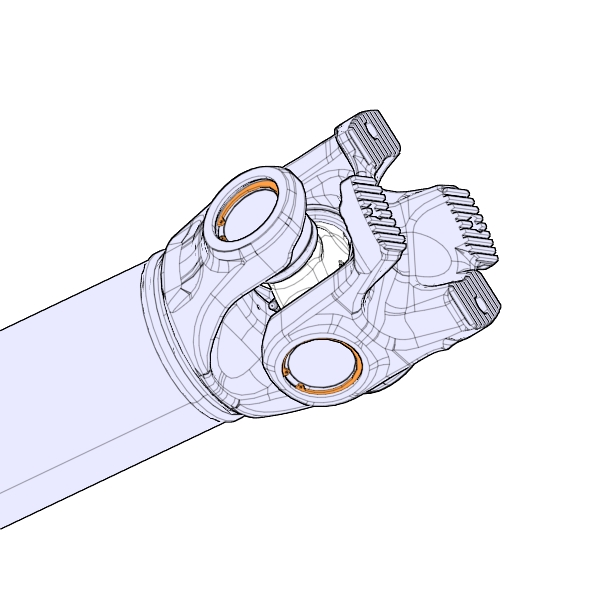
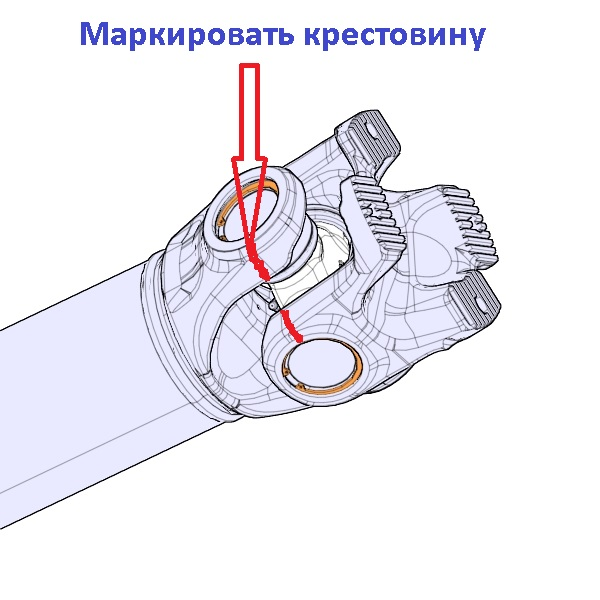
290920_new_page
cardan_shaft.html

Changed region(s): [[0.12, 0.03, 0.81, 0.48], [0.45, 0.51, 0.51, 0.57]]

diff --git a/cardan.html b/cardan.html
@@ -1,0 +1,376 @@
+<!DOCTYPE html>
+<html>
+
+<head>
+    <meta charset="utf-8" />
+    <meta name="viewport" content="width=device-width minimum-scale=1.0 maximum-scale=1.0 user-scalable=no" />
+    <title>Замена карданных шарниров, замена (каждого) </title>
+    <meta name="keywords" content="ремонт грузовик грузовой автомобиль двигатель Вольво Volvo" />
+    <meta name="description" content="Руководство по ремонту грузовых автомобилей Вольво" />
+    <link rel="stylesheet" href="css/style.css">
+    <link rel="stylesheet" href="css/all.css">
+    <link rel="stylesheet" href="css/text.css">
+    <link rel="stylesheet" href="css/adaptive.css">
+    <link href="https://fonts.googleapis.com/css?family=Roboto:100,300,300i,400,400i,500,700,900&display=swap" rel="stylesheet">
+    <link rel="stylesheet" href="css/hamburgers.css">
+    <link rel="stylesheet" href="css/adaptive.css">
+    <link rel="stylesheet" href="css/style.css">
+    <link rel="stylesheet" href="css/mobmenu.css">
+    <script src="js/jquery-3.4.1.min.js"></script>
+</head>
+
+<body>
+    <header>
+        <div class="black_nav">
+            <!-- Мобильное меню Start -->
+            <div class="burger_menu">
+                <button class="hamburger hamburger--arrowalt" type="button">
+                    <span class="hamburger-box">
+                        <span class="hamburger-inner"></span>
+                    </span>
+                </button>
+            </div>
+
+            <div id="menu">
+                <ul>
+                    <li><a href="" onclick="menuOpen('s_mn_1');return(false)">Ремонты</a>
+                        <ul id="s_mn_1">
+                            <li><a href="pads.html" target="_blank">Замена задних подушек крепления двигателя</a></li>
+                            <li><a href="valves.html" target="_blank">Регулировка клапанов двигателя</a></li>
+                            <li><a href="ishift.html.html" target="_blank">Снятие коробки передач I-Shift</a></li>
+                            <li><a href="brakes.html" target="_blank">Замена тормозных накладок</a></li>
+                            <li><a href="stab.html" target="_blank">Замена стабилизатора кабины</a></li>
+                            <li><a href="gen.html">Замена генератора</a></li>
+                            <li><a href="driveshaft.html">46606-2 Передний мост. Подшипник и уплотнительные кольца ведущего вала. Замена</a></li>
+                            <li><a href="">ТО</a></li>
+                        </ul>
+                    </li>
+
+                    <li><a href="" onclick="menuOpen('s_mn_2');return(false)">Документы</a>
+                        <ul id="s_mn_2">
+                            <li><a href="transfer_gear.html" target="_blank">Раздаточная коробка</a></li>
+                            <li><a href="service.html" target="_blank">Сервисные режимы</a></li>
+                        </ul>
+                    </li>
+
+                    <li><a href="" onclick="menuOpen('s_mn_3');return(false)">Видео</a>
+                        <ul id="s_mn_3">
+                            <li><a href="https://youtu.be/1avpoKe8W_o" target="_blank">Лайфхак как быстро снять/поставить колодки на Volvo fh12</a></li>
+                            <li><a href="https://youtu.be/Yw-9nIqBrOE" target="_blank">№1.Ремонт Webasto Thermo 90 ST</a></li>
+                            <li><a href="https://youtu.be/dZjj1mKDUTY" target="_blank">№2.Ремонт Webasto Thermo 90 ST</a></li>
+                            <li><a href="https://youtu.be/Wmk7OJsDB-0" target="_blank">Проверка двигателя Вольво FH</a></li>
+                            <li><a href="https://youtu.be/2NiIiGWVbYA" target="_blank">VOLVO FH 12 сальник гур замена</a></li>
+                            <li><a href="https://youtu.be/F-Fd5LUE3oU" target="_blank">VOLVO FH 13 не запускается автономка</a></li>
+                            <li><a href="https://youtu.be/X9l8KeIENQw" target="_blank">VOLVO FH 13 отказ уровня пола + горит АКБ лампа на щитке приборов</a></li>
+                            <li><a href="https://youtu.be/eyP_0Ia1gsk" target="_blank">VOLVO FH 13 Вискомуфта замена подшипника</a></li>
+                            <li><a href="https://youtu.be/MgnjWy3MCRI" target="_blank">Гидроцилиндры и насосы подъема кабины.</a></li>
+                            <li><a href="https://youtu.be/HZ8qx5xHuZE" target="_blank">VOLVO FH 13 куча ошибок по АКПП. Как быстро найти обрыв провода</a></li>
+                            <li><a href="https://youtu.be/Owpyb182sxg" target="_blank">VOLVO FH 12 Сломаны держатели форсунок. Регулировка клапанов без VEB</a></li>
+                            <li><a href="https://youtu.be/7tw5YRes_6k" target="_blank">Снятие трубки,штуцера,Volvo</a></li>
+                            <li><a href="https://youtu.be/w7OO2WCfvTM" target="_blank">Volvo VNL 780. Снятие ступицы.</a></li>
+                            <li><a href="https://youtu.be/7tw5YRes_6k" target="_blank">Volvo VNL 780. Установка сальника ступицы</a></li>
+                            <li><a href="https://youtu.be/GGrB4dc7cuI" target="_blank">Как ехать задним ходом на машине с прицепом</a></li>
+                            <li><a href="https://youtu.be/L8FZ6wdF0SE" target="_blank">Ремонт тормозного Z механизма Volvo</a></li>
+                        </ul>
+                    </li>
+
+                    <li><a href="" onclick="menuOpen('s_mn_4');return(false)">Фотогаллерея</a>
+                        <ul id="s_mn_4">
+                            <li><a href="gallery.html" target="_blank">Всё</a></li>
+                            <li><a href="gal02.html" target="_blank">Моя работа 2020</a></li>
+                        </ul>
+                    </li>
+
+                    <li><a href="" onclick="menuOpen('s_mn_5');return(false)">Полезные ресурсы</a>
+                        <ul id="s_mn_5">
+                            <li><a href="">Подпункт меню №1</a></li>
+                            <li><a href="">Подпункт меню №2</a></li>
+                            <li><a href="">Подпункт меню №3</a></li>
+                        </ul>
+                    </li>
+                </ul>
+            </div>
+            <!-- Мобильное меню End -->
+        </div>
+        <div class="wrapper">
+            <div class="login"><a href="http://truck-diagnost.com/index.php" target="_blank">Войти на форум</a></div>
+            <nav class="top_nav">
+                <div class="logowrapp">
+                    <div class="logo"><img src="img/volvoLogo_mini.png" alt=""></div>
+                    <div class="location">
+                        <h3>Volvo Trucks Service</h3><span>Сайт в помощь по ремонту и обслуживанию грузовых автомобилей
+                            Вольво</span>
+                    </div>
+                </div>
+                <ul class="tabs">
+                    <li class="simpleLink"><a href="index.html" target="_blank"> Главная</a></li>
+                    <li class="tabLink" data-tab="1">Ремонты</li>
+                    <li class="tabLink" data-tab="2">Документы</li>
+                    <li class="tabLink" data-tab="3">Видео</li>
+                    <li class="tabLink" data-tab="4">Фотогаллерея</li>
+                </ul>
+            </nav>
+        </div>
+        <div class="tabs_body">
+            <div class="tab-b">
+                <p>
+                    Своевременное обслуживание Volvo максимально увеличивает Ваше время работы без простоев и снижает
+                    риск
+                    незапланированных визитов в мастерскую. Индивидуальные планы обслуживания для каждого грузовика
+                    гарантируют, что правильное обслуживание проводится именно тогда, когда необходимо.</p>
+            </div>
+            <div class="tab-b">
+                <ul>
+                    <li><a href="">Замена втулки передней рессоры</a></li>
+                    <li><a href="pads.html" target="_blank">Замена задних подушек крепления двигателя</a></li>
+                    <li><a href="valves.html" target="_blank">Регулировка клапанов двигателя</a></li>
+                    <li><a href="ishift.html.html" target="_blank">Снятие коробки передач I-Shift</a></li>
+                    <li><a href="brakes.html" target="_blank">Замена тормозных накладок</a></li>
+                    <li><a href="stab.html" target="_blank">Замена втулок стабилизатора кабины</a></li>
+                    <li><a href="gen.html">Замена генератора</a></li>
+                    <li><a href="driveshaft.html">46606-2 Передний мост. Подшипник и уплотнительные кольца ведущего вала. Замена</a></li>
+                    <li><a href="">ТО</a></li>
+                </ul>
+            </div>
+            <div class="tab-b">
+                <h3>Документация</h3>
+                <li><a href="transfer_gear.html" target="_blank">Раздаточная коробка</a></li>
+                <li><a href="service.html" target="_blank">Сервисные режимы</a></li>
+            </div>
+            <div class="tab-b video">
+                <h3>Видео</h3>
+                <ul>
+                    <li><a href="https://youtu.be/1avpoKe8W_o" target="_blank">Лайфхак как быстро снять/поставить колодки на Volvo fh12</a></li>
+                    <li><a href="https://youtu.be/Yw-9nIqBrOE" target="_blank">№1.Ремонт Webasto Thermo 90 ST</a></li>
+                    <li><a href="https://youtu.be/dZjj1mKDUTY" target="_blank">№2.Ремонт Webasto Thermo 90 ST</a></li>
+                    <li><a href="https://youtu.be/Wmk7OJsDB-0" target="_blank">Проверка двигателя Вольво FH</a></li>
+                    <li><a href="https://youtu.be/2NiIiGWVbYA" target="_blank">VOLVO FH 12 сальник гур замена</a></li>
+                    <li><a href="https://youtu.be/F-Fd5LUE3oU" target="_blank">VOLVO FH 13 не запускается автономка</a></li>
+                    <li><a href="https://youtu.be/X9l8KeIENQw" target="_blank">VOLVO FH 13 отказ уровня пола + горит АКБ лампа на щитке приборов</a></li>
+                    <li><a href="https://youtu.be/eyP_0Ia1gsk" target="_blank">VOLVO FH 13 Вискомуфта замена подшипника</a></li>
+                    <li><a href="https://youtu.be/MgnjWy3MCRI" target="_blank">Гидроцилиндры и насосы подъема кабины.</a></li>
+                    <li><a href="https://youtu.be/HZ8qx5xHuZE" target="_blank">VOLVO FH 13 куча ошибок по АКПП. Как быстро найти обрыв провода</a></li>
+                    <li><a href="https://youtu.be/Owpyb182sxg" target="_blank">VOLVO FH 12 Сломаны держатели форсунок. Регулировка клапанов без VEB</a></li>
+                    <li><a href="https://youtu.be/7tw5YRes_6k" target="_blank">Снятие трубки,штуцера,Volvo</a></li>
+                    <li><a href="https://youtu.be/w7OO2WCfvTM" target="_blank">Volvo VNL 780. Снятие ступицы.</a></li>
+                    <li><a href="https://youtu.be/7tw5YRes_6k" target="_blank">Volvo VNL 780. Установка сальника ступицы</a></li>
+                    <li><a href="https://youtu.be/GGrB4dc7cuI" target="_blank">Как ехать задним ходом на машине с прицепом</a></li>
+                    <li><a href="https://youtu.be/L8FZ6wdF0SE" target="_blank">Ремонт тормозного Z механизма Volvo</a></li>
+                </ul>
+            </div>
+            <div class="tab-b">
+                <h3>Фотогаллерея</h3>
+                <li><a href="gallery.html" target="_blank">Всё</a></li>
+                <li><a href="gal02.html" target="_blank">Моя работа 2020</a></li>
+            </div>
+
+        </div>
+    </header>
+    <!-- Контент Начало -->
+    <div class="wrapper">
+        <div class="page_title">
+            <h1 class="retroshadow">Volvo Truck Service</h1>
+        </div>
+    </div>
+    <div class="banner">
+
+    </div>
+
+    <div class="wrapper">
+        <section class="page">
+            <div class="leftSide">
+                <h3>Реклама</h3>
+            </div>
+            <div class="infobox">
+                <h1>45171-4 Карданные шарниры, замена (каждого)</h1>
+                <h3>Время выполнения:</h3> 110 (1час 6 мин).
+                <h3>Инструмент: </h3>
+                <ol class="rounded">
+                    <li>Круглогубцы для съёма колец</li>
+                    <li>Молоток</li>
+                    <li>Острая выколотка для срывания стопорных колец</li>
+                    <li>Выколотка или старый подшипник от крестовины</li>
+                    <li>Пресс</li>
+
+                </ol>
+                <h3>Порядок действий: </h3>
+                <h2>Разборка</h2>
+                <ol class="rounded">
+                    <li>Очистите карданный шарнир</li>
+                    <li>Маркируйте положение фланцевой вилки. <a href="#01">Смотреть картинку</a></li>
+                    <li>Снимите стопорные кольца <a href="#02">Смотреть картинку</a></li>
+                    <li>
+                        Снимите стопорное кольцо. Снимите шестерню. Отметить положение.
+                        <a href="#03">Смотреть картинку</a>
+                    </li>
+                    <li>
+                        Открутить гайку спецключом. <a href="#04">Смотреть картинку</a>
+                    </li>
+
+                    <li>Демонтируйте коронную шестерню.<a href="#05">Смотреть картинку</a></li>
+                    <li>Снять ступицу</li>
+                    <li>Снять вилку с тормозной камеры. Отметить положение</li>
+                    <li>Снять тормозную камеру</li>
+                    <li>Отсоедините продольную рулевую тягу</li>
+                    <li>
+                        Демонтировать рычаг тормозного механизма.
+                        <a href="#06">Смотреть картинку</a>
+                    </li>
+                    <li>
+                        Демонтируйте датчик ABS.
+                    </li>
+                    <li>Выверните винты. <a href="#07">Смотреть картинку</a> </li>
+
+                    <li>
+                        Открутите стопорный винт. Отметьте положение.
+                        <a href="#08">Смотреть картинку</a>
+                    </li>
+                    <li>
+                        Установите съёмные винты.
+                        Затяните винты в попеременном порядке.
+                        <a href="#09">Смотреть картинку</a>
+                    </li>
+                    <li>
+                        Демонтируйте тормозной механизм в сборе с колодками.
+                        <a href="#10">Смотреть картинку</a>
+                    </li>
+                    <li>
+                        Выверните винты 4 шт. Шестигранник *14
+                        Снять верхнюю пластину.
+                        <a href="#11">Смотреть картинку</a>
+                    </li>
+                    <li>Извлеките штифты. Выверните винты. Снимите рулевой рычаг.<a href="#12">Смотреть картинку</a>
+                    </li>
+                    <li>
+                        Снимите поворотный кулак.
+                        <a href="#13">Смотреть картинку</a>
+                    </li>
+                    <li>Снимите ведущий вал. <a href="#14">Смотреть картинку</a></li>
+                    <li>Если ведущий вал не выходит, возможно мешает блокировка дифференциала. Нужно открутить 4 болта и снять блокировку
+                    </li>
+                    <li>
+                        Снимите уплотнительное кольцо и подшипник из моста. <a href="#15">Смотреть картинку</a>
+                    </li>
+                    <li>
+                        Снимите упорную шайбу из поворотного кулака.
+                        <a href="#16">Смотреть картинку</a>
+                    </li>
+                    <li>
+                        Снимите уплотнительное кольцо и подшипник поворотного кулака.
+                    </li>
+                    <br>
+                </ol>
+
+                <h2>Сборка</h2>
+                <ol class="rounded">
+                    <li>
+                        Установите подшипник. Установите уплотнительное кольцо. Втолкните до упора. <a href="#16">Смотреть картинку</a>
+                    </li>
+                    <li>
+                        Установите упорную шайбу. Используйте пластиковую киянку. <a href="#17">Смотреть картинку.</a>
+                    </li>
+                    <li>
+                        Установите подшипник. Установите уплотнительное кольцо. Так же как и в повротный кулак<a href="#15">Смотреть картинку</a>
+                    </li>
+                    <br>
+                </ol>
+                <h3>Полезные ссылки по теме:</h3>
+                <a href="https://www.youtube.com/watch?v=xlF5X3SRHQI&t=14s" target="_blank">VOLVO c I-shift нет передач</a><br>
+
+                <section class="gallery">
+                    <div class="pic">
+                        <img src="img/cardan_shaft_01.jpg" alt="крестовина" title="крестовина" id="01">
+                    </div> <br>
+
+                    <div class="pic">
+                        <img src="img/cardan_shaft_01_b.jpg" alt="крестовина" title="крестовина" id="02">
+                    </div> <br>
+
+                    <div class="pic">
+                        <img src="img/content/driveshaft/dsh02b.jpg" alt="стопорное кольцо" title="стопорное кольцо" id="03">
+                    </div> <br>
+
+                    <div class="pic">
+                        <img src="img/content/driveshaft/dsh03b.jpg" alt="Гайка" title="Гайка" id="04">
+                    </div> <br>
+
+                    <div class="pic">
+                        <img src="img/content/driveshaft/dsh03.jpg" alt="Демонтируйте коронную шестерню" title="Демонтируйте коронную шестерню" id="05">
+                    </div> <br>
+
+                    <div class="pic">
+                        <img src="img/content/driveshaft/dsh04.jpg" alt="рычаг тормозного механизма" title="рычаг тормозного механизма" id="06">
+                    </div> <br>
+
+                    <div class="pic">
+                        <img src="img/content/driveshaft/dsh05.jpg" alt="Винты" title="Винты" id="07">
+                    </div> <br>
+
+                    <div class="pic">
+                        <img src="img/content/driveshaft/dsh06.jpg" alt="стопорный винт" title="стопорный винт" id="08">
+                    </div> <br>
+
+                    <div class="pic">
+                        <img src="img/content/driveshaft/dsh07.jpg" alt="съёмные винты" title="съёмные винты" id="09">
+                    </div> <br>
+
+                    <div class="pic">
+                        <img src="img/content/driveshaft/dsh08.jpg" alt="водило" title="водило" id="10">
+                    </div> <br>
+
+                    <div class="pic">
+                        <img src="img/content/driveshaft/dsh09.jpg" alt="Снять верхнюю пластину." title="Снять верхнюю пластину." id="11">
+                    </div> <br>
+
+                    <div class="pic">
+                        <img src="img/content/driveshaft/dsh10.jpg" alt="Штифты" title="Штифты" id="12">
+                    </div> <br>
+
+                    <div class="pic">
+                        <img src="img/content/driveshaft/dsh11.jpg" alt="поворотный кулак" title="поворотный кулак" id="13">
+                    </div> <br>
+
+                    <div class="pic">
+                        <img src="img/content/driveshaft/dsh12.jpg" alt="ведущий вал" title="ведущий вал" id="14">
+                    </div> <br>
+
+                    <div class="pic">
+                        <img src="img/content/driveshaft/dsh13.jpg" alt="уплотнительное кольцо" title="уплотнительное кольцо" id="15">
+                    </div> <br>
+
+                    <div class="pic">
+                        <img src="img/content/driveshaft/dsh14.jpg" alt="уплотнительное кольцо" title="уплотнительное кольцо" id="16">
+                    </div> <br>
+                </section>
+                <a href="sealing_ring.html">Уплотнительное кольцо приводного вала, замена.</a>
+            </div>
+            <div class="rightSide">
+                <h3>Реклама</h3>
+            </div>
+        </section>
+    </div>
+    <footer>
+        <div class="footer_content">
+            <nav class="footer-nav">
+                <ul>
+                    <li><a href="http://autogeriko.com/" target="_blank">AUTOGERICO - сайт по грузовикам</a></li>
+                    <li><a href="http://autogeriko.com/page-1672.html" target="_blank">Renault Truck - автоэлектрика</a></li>
+                    <li><a href="http://sti66.ru/vsegda_na_sklade/album/peredniy-vedushchiy-most" target="_blank">Запчасти он-лайн</a></li>
+                </ul>
+            </nav>
+
+            <div class="picture"><img src="img/truck-113.png" alt="">
+            </div>
+
+            <div class="volvo"><span> Website has been made in 2019 by Vladimir Shuldeshov</span>
+            </div>
+        </div>
+    </footer>
+    <!-- Контент Конец -->
+    <script src="js/fontawesome/all.js "></script>
+    <script src="js/mymenu.js"></script>
+    <script src="js/mobmenu.js"></script>
+    <script src="js/script.js"></script>
+</body>
+
+</html>
